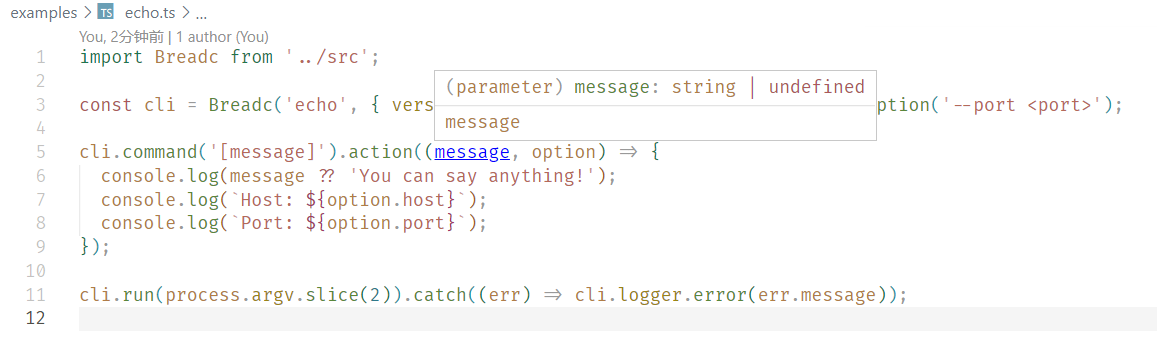
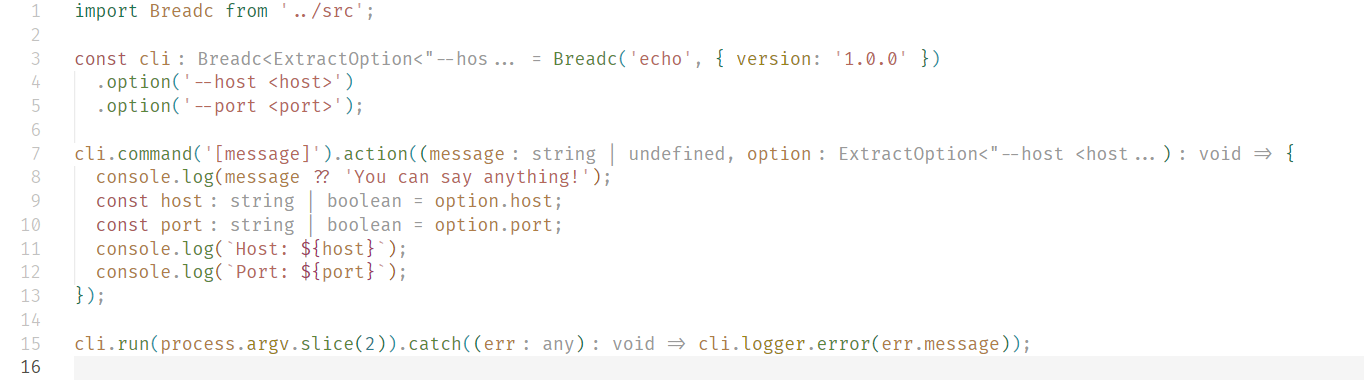
docs: update new usage of option

diff --git a/README.md b/README.md
@@ -12,7 +12,7 @@ npm i breadc
 
 ## Usage
 
-See [./examples/echo.ts](./examples/echo.ts).
+Try [./examples/echo.ts](./examples/echo.ts).
 
 ```ts
 import Breadc from 'breadc'
@@ -24,16 +24,17 @@ const cli = Breadc('echo', { version: '1.0.0' })
 cli
   .command('[message]')
   .action((message, option) => {
-    console.log(message ?? 'You can say anything!')
-    console.log(`Host: ${option.host}`)
-    console.log(`Port: ${option.port}`)
+    const host = option.host;
+    const port = option.port;
+    console.log(`Host: ${host}`);
+    console.log(`Port: ${port}`);
   })
 
 cli.run(process.argv.slice(2))
   .catch(err => cli.logger.error(err.message))
 ```
 
-If you are using IDEs that support TypeScript (like [Visual Studio Code](https://code.visualstudio.com/)), move your cursor to the parameter `option` in this `dev` command, and then you will find the `option` is automatically typed with `{ host: string, port: string }` or `Record<'host' | 'port', string>`.
+If you are using IDEs that support TypeScript (like [Visual Studio Code](https://code.visualstudio.com/)), move your cursor to the parameter `option` in the default command, and then you will find the `option` is automatically typed with `{ host: string | boolean, port: string | boolean }`.
 
 ![vscode](./images/vscode.png)
 
